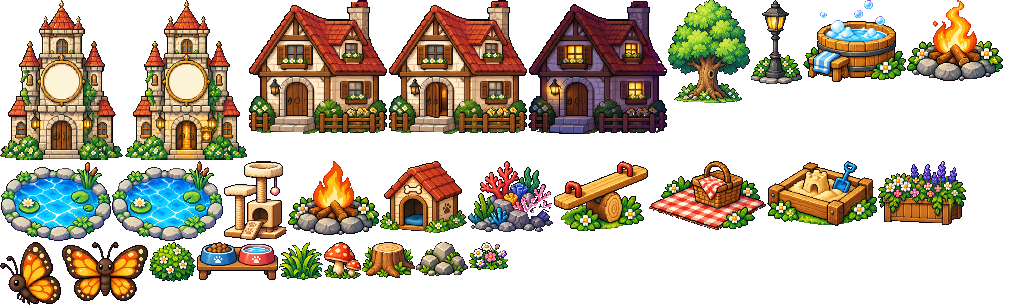
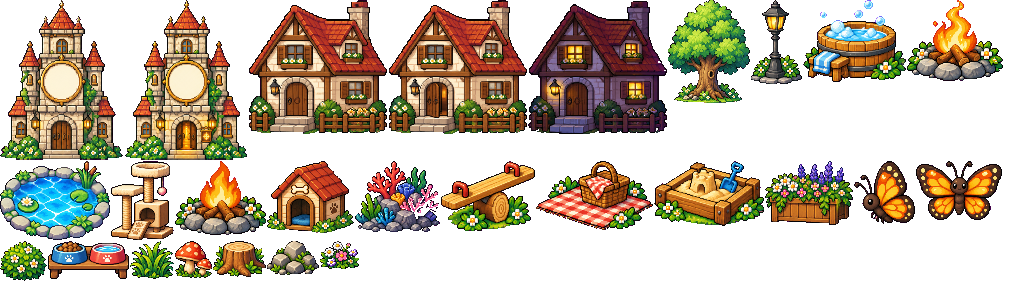
v3.1.0: 水池靜止、位置調整（待確認）

diff --git a/src/farm/pixel/layout.ts b/src/farm/pixel/layout.ts
@@ -42,11 +42,13 @@ export const TREE_W = 82
 export const TREE_H = 103
 export const FAR_H = 37
 export const PATH_H = 67
-/** 水池素材（兩幀同一個畫布大小與錨點）與它的水面橢圓（相對素材左上角），要和 manifest 一致（測試會檢查） */
-export const POND_W = 111
-export const POND_H = 80
-export const POND_AX = 56
-export const WATER = { cx: 56, cy: 42, rx: 43, ry: 26 }
+/** 水池素材（只有一幀，水面靜止）與它的水面橢圓（相對素材左上角），要和 manifest 一致（測試會檢查） */
+export const POND_W = 110
+export const POND_H = 79
+export const POND_AX = 55
+export const WATER = { cx: 55, cy: 41, rx: 43, ry: 26 }
+/** 水池素材左緣（邏輯座標）：在住家煙囪的右邊（煙囪最右約 x=128），不和煙囪輪廓疊在一起 */
+export const POND_LEFT = 130
 /** 樹幹（腳底往上）的佔地：寵物不會站進去 */
 export const TRUNK_HALF_W = 9
 export const TRUNK_H = 12
@@ -150,9 +152,13 @@ export function towerSignCenter(L: Layout): { x: number; y: number } {
   return { x: t.x + TOWER_SIGN.x * TOWER_W, y: t.y + TOWER_SIGN.y * TOWER_H }
 }
 
-/** 水池：放在住家右上方的後排（左邊那棵樹的左側）。x = 水平中心、y = 腳底（素材底邊） */
+/**
+ * 水池：放在住家右上方的後排（左邊那棵樹的左側）。x = 水平中心、y = 腳底（素材底邊）。
+ * y 由草地上緣算出來：整個素材（含最高的蘆葦尖端）都在草地上緣以下、不伸進遠景樹林，所以 y 的下限 = 草地上緣 + 素材高 + 2。
+ * 視窗太矮、放不下時，以草地上緣為優先（水池會更貼近路燈上方，但仍在路燈之上）。
+ */
 export function pondPos(L: Layout): { x: number; y: number } {
-  return { x: HOUSE_X0 + HOUSE_W + 8 + POND_AX, y: Math.min(L.farBottom + 60, L.H - LAMP_H - 16) }
+  return { x: POND_LEFT + POND_AX, y: L.farBottom + POND_H + 2 }
 }
 
 /** 水面橢圓（邏輯座標） */

diff --git a/src/farm/pixel/engine.ts b/src/farm/pixel/engine.ts
@@ -220,7 +220,7 @@ export class PixelEngine {
     const pond = pondPos(L)
     for (const o of sceneObjects(L)) {
       if (o.key === 'pond') {
-        // 水池：2 幀水面閃動（約每 0.5 秒換一幀）；泡澡中的寵物畫在水池上面（下半身被水面遮住）
+        // 水池（靜止，只有一幀）；泡澡中的寵物畫在水池上面（下半身被水面遮住）
         items.push({ y: o.y, draw: () => this.drawPond(ctx, o.x, o.y, f) })
         continue
       }
@@ -326,7 +326,7 @@ export class PixelEngine {
 
   /** 水池本體＋泡澡中的寵物（用水面橢圓裁切，只露出水面以上）＋漣漪 */
   private drawPond(ctx: CanvasRenderingContext2D, x: number, y: number, f: FrameInfo): void {
-    const s = assets.get(Math.floor(this.time / 0.5) % 2 === 0 ? 'pond_a' : 'pond_b')
+    const s = assets.get('pond')
     if (!s) return
     drawSprite(ctx, s, x, y)
     const w = waterEllipse(this.layout)

diff --git a/src/dev/Proportions.tsx b/src/dev/Proportions.tsx
@@ -24,7 +24,7 @@ function buildItems(): Item[] {
     { key: 'house_closed', label: '住家', group: 'obj' },
     { key: 'clocktower', label: '鐘樓', group: 'obj' },
     { key: 'clocktower_open', label: '開門鐘樓', group: 'obj' },
-    { key: 'pond_a', label: '水池', group: 'obj' },
+    { key: 'pond', label: '水池', group: 'obj' },
   ]
   return [...dogs, ...cats, ...objs]
 }

diff --git a/CHANGELOG.md b/CHANGELOG.md
@@ -12,6 +12,7 @@
 - 新素材（由 `scripts/process-assets.mjs` 處理）：`scene_pond`（水池 2 幀）、`fx_water`（漣漪 3 幀小→大、水花 3 幀噴起→最高→落下、水滴 3 顆、泡泡 2 個，單格高約 24～32，漣漪較扁）、`scene_clocktower_open`（開門鐘塔）
 
 ### 變更
+- 水池靜止、位置調整：水池只用原圖第一幀（兩幀輪廓差 1px、切換會抖），不再閃動，第二幀不輸出到 manifest（素材 110×79，水面橢圓 cx55 cy41 rx43 ry26，以第一幀重新偵測）；只有洗澡時的漣漪、水花、泡泡會動。位置往左、往下：水池左緣 x=130（在住家煙囪右邊，不與煙囪輪廓疊在一起），y 由程式依草地上緣算出（草地上緣 + 素材高 + 2），整個素材含蘆葦尖端都在草地上緣以下，5 種視窗大小都成立。住家與水池沒有重疊（要遮住左下角會一定碰到煙囪或路燈，見回報），拖放目標、洗澡站位都在水面上
 - 內建遊戲只放在遊戲館：啟動台只列使用者自己的程式，移除「遊戲」資料夾、遊戲圖示與「隱藏內建遊戲」的右鍵選單；舊存檔（`aemc-desktop:app-list`）裡的 `hiddenBuiltins` 欄位安全忽略，下次存檔時清掉。啟動台沒有程式時顯示「按右上角的「＋」新增你的程式」
 - 寵物之間的避讓範圍從 1.5 倍放大到 1.75 倍：6 隻同場、8 種視窗大小各模擬 30 分鐘，有任何重疊的畫面最多 1.61%（v3.0.0 是 3.74%），兩兩重疊面積 0.108%（v3.0.0 是 0.252%）；水池、樹幹、鐘樓底座都不會走進，也沒有寵物卡住
 - 領養按鈕、點數、數量等選單列內容不變
